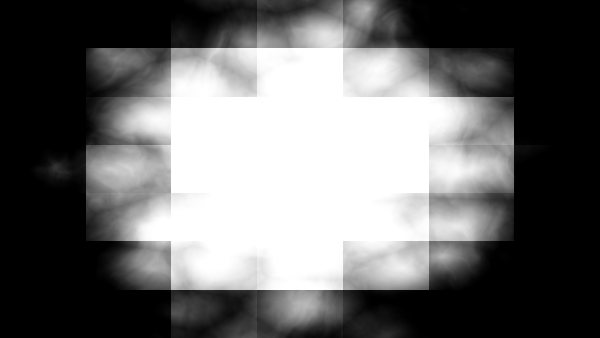
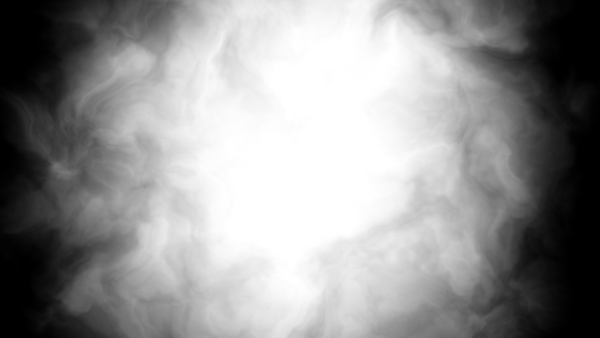
fix(mode 29): actually use cellsMask (was rendering the orphan filmMeltMask)
The previous commit wired the Lamp Grid UI but the shader insertion of
cellsMask had silently failed (anchor mismatch, asserted script wrote
nothing), so mode 29 still dispatched to a leftover filmMeltMask — which
looked like cells by coincidence but ignored the new columns/rows/jitter/
glow/order/cascade controls. Insert cellsMask and repoint the mode-29
dispatch to it. (filmMeltMask is now unused but left in place.)

Verified: columns 3×3 vs 14×14 differ (mean-abs 42.8 ⇒ controls drive it),
reveal t0=0→t1=255, 0 WGSL/page errors. Thumbnail regenerated from cellsMask.

diff --git a/shader.js b/shader.js
@@ -1135,6 +1135,29 @@ fn organicMask(uv: vec2f, lA: f32, lB: f32, edge: f32) -> f32 {
 
 // ---- main shader ------------------------------------------------------------
 
+fn cellsMask(uv: vec2f) -> f32 {
+  // Lamp grid (mode 29): a jittered grid of cells, each "igniting" (black->white)
+  // at its own staggered time so a collage lights up cell by cell like lamps.
+  let cols = max(1.0, round(p.sedBands));
+  let rows = max(1.0, round(f32(p.bloomCount)));
+  var guv = uv;
+  if (p.dabsWobble > 0.001) {
+    let w = fbm(vec2f(uv.x * cols, uv.y * rows) + p.seed * 0.07);
+    guv = uv + (w - 0.5) * p.dabsWobble * 0.12;
+  }
+  let gx = floor(clamp(guv.x, 0.0, 0.9999) * cols);
+  let gy = floor(clamp(guv.y, 0.0, 0.9999) * rows);
+  let total = max(1.0, cols * rows);
+  let cellId = gx + gy * cols;
+  let h = hash21(vec2f(gx + 1.7, gy + 3.3) + p.seed * 1.31);
+  let seq = (cellId + 0.5) / total;
+  var ignite = mix(seq, h, clamp(p.moldWobble, 0.0, 1.0));            // order: sequential -> random
+  ignite = pow(clamp(ignite, 0.0, 1.0), mix(1.0, 2.6, clamp(p.glazeWarm, 0.0, 1.0)));  // cascade bias
+  let cuv = fract(vec2f(guv.x * cols, guv.y * rows)) - vec2f(0.5, 0.5);
+  ignite = ignite + length(cuv) * 1.414 * clamp(p.bloomRim, 0.0, 1.0) * 0.2;  // lamp: centre lights first
+  return clamp(ignite, 0.0, 1.0);
+}
+
 @fragment fn fs(in: VSOut) -> @location(0) vec4f {
   let uv = in.uv;
 
@@ -1215,7 +1238,7 @@ fn organicMask(uv: vec2f, lA: f32, lB: f32, edge: f32) -> f32 {
     let lT = luma(cT);
     mask = clamp(select(1.0 - lT, lT, p.videoMaskInvert == 1u), 0.0, 1.0);
   } else if (p.mode == 29u) {
-    mask = filmMeltMask(uv);
+    mask = cellsMask(uv);
   } else if (p.mode == 30u) {
     // Light bloom: A's bright pixels reveal first (the light source in the
     // painting "burns through"); darker areas reveal as the bloom expands.